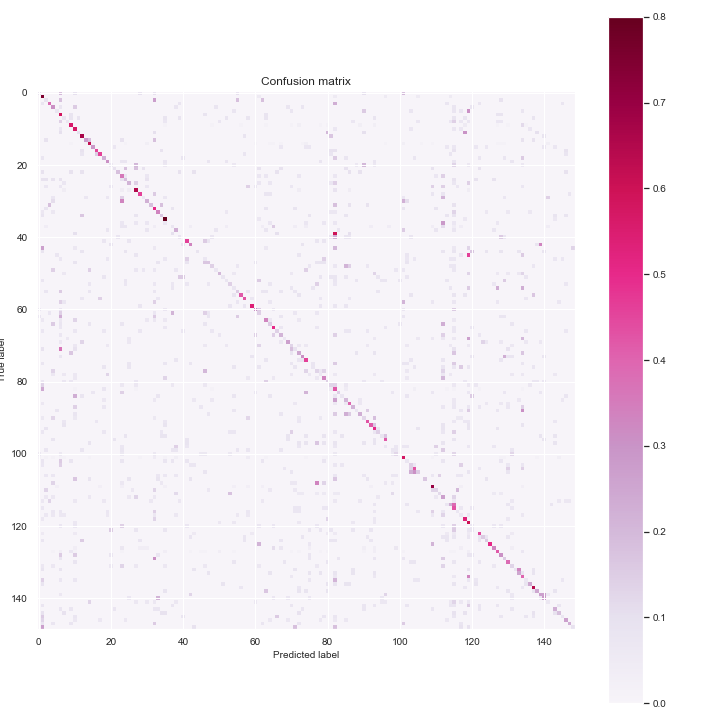
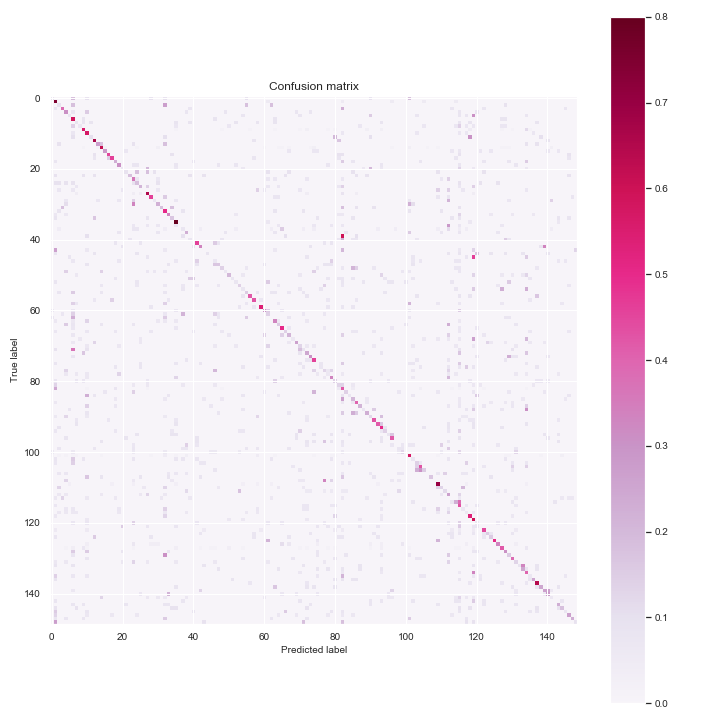
updated cm img and class script

diff --git a/src/cnn_class.py b/src/cnn_class.py
@@ -6,6 +6,7 @@ from keras.utils import np_utils
 from keras import backend as K
 from keras.preprocessing.image import ImageDataGenerator
 from sklearn.metrics import classification_report, confusion_matrix
+from keras import callbacks
 import os
 import pickle
 import numpy as np
@@ -39,6 +40,7 @@ class PokemonCNN(object):
         self._len_init()
         self.param_init()
         self.create_generators()
+        self.make_callbacks()
 
     def fit(self):
         '''
@@ -52,7 +54,8 @@ class PokemonCNN(object):
                 verbose=1,
                 validation_data=self.val_gen,
                 validation_steps=self.n_val/self.batch,
-                use_multiprocessing=True
+                use_multiprocessing=True,
+                callbacks = self.callbacks
             )
         else:
             print("No image generators found! (This message shouldn't be seen)")
@@ -203,6 +206,19 @@ class PokemonCNN(object):
         model_path = self.model_save_path + self.model_name + ".h5"
         self.model.save(model_path)
         print("Saved model to \"" + model_path + "\"")
+
+    def make_callbacks(self):
+        # Initialize tensorboard for monitoring
+        tensorboard = callbacks.TensorBoard(log_dir="models/",
+                                                  histogram_freq=0, batch_size=self.batch,
+                                                  write_graph=True, embeddings_freq=0)
+
+        # Initialize model checkpoint to save best model
+        self.savename = 'models/'+"my_cnn_best"+'.hdf5'
+        mc = callbacks.ModelCheckpoint(self.savename,
+                                             monitor='val_loss', verbose=0, save_best_only=True,
+                                             save_weights_only=False, mode='auto', period=1)
+        self.callbacks = [mc, tensorboard]
         
 
 if __name__ == "__main__":
@@ -214,14 +230,13 @@ if __name__ == "__main__":
     print("Creating Class")
     my_cnn = PokemonCNN(train_path, val_path, test_path)
     print("Initializing Parameters")
-    my_cnn.param_init(epochs=2, batch_size=32, image_size=(64, 64), base_filters=8, final_layer_neurons=128)
+    my_cnn.param_init(epochs=5, batch_size=32, image_size=(64, 64), base_filters=16, final_layer_neurons=128)
     print("Creating Generators")
     my_cnn.create_generators(augmentation_strength=0.4)
     print("Building Model")
     my_cnn.build_model(kernel_size=(3, 3), pool_size=(2, 2), droupout_perc=0.25, num_blocks=1)
     print("Fitting Model")
     my_cnn.fit()
-    '''
     print("Evaluating Model")
     my_cnn.evaluate_model()
     print("Saving Model Predictions")
@@ -229,4 +244,4 @@ if __name__ == "__main__":
     print("Saving Model")
     my_cnn.save_model()
     print("Everything ran without errors!")
-    '''
+    
